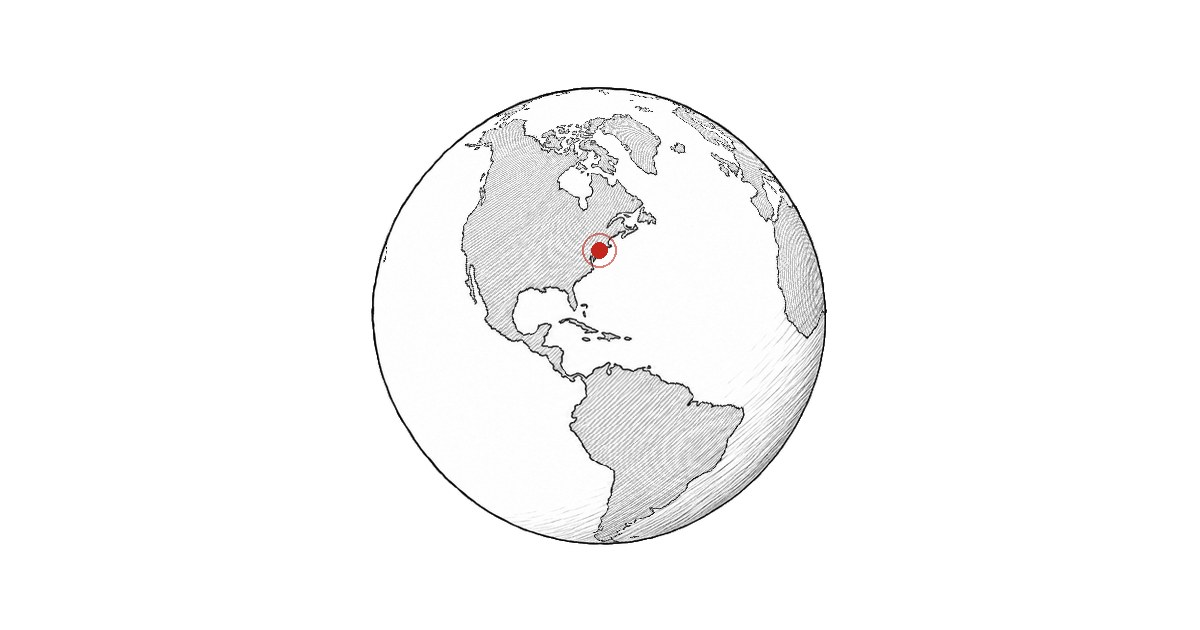
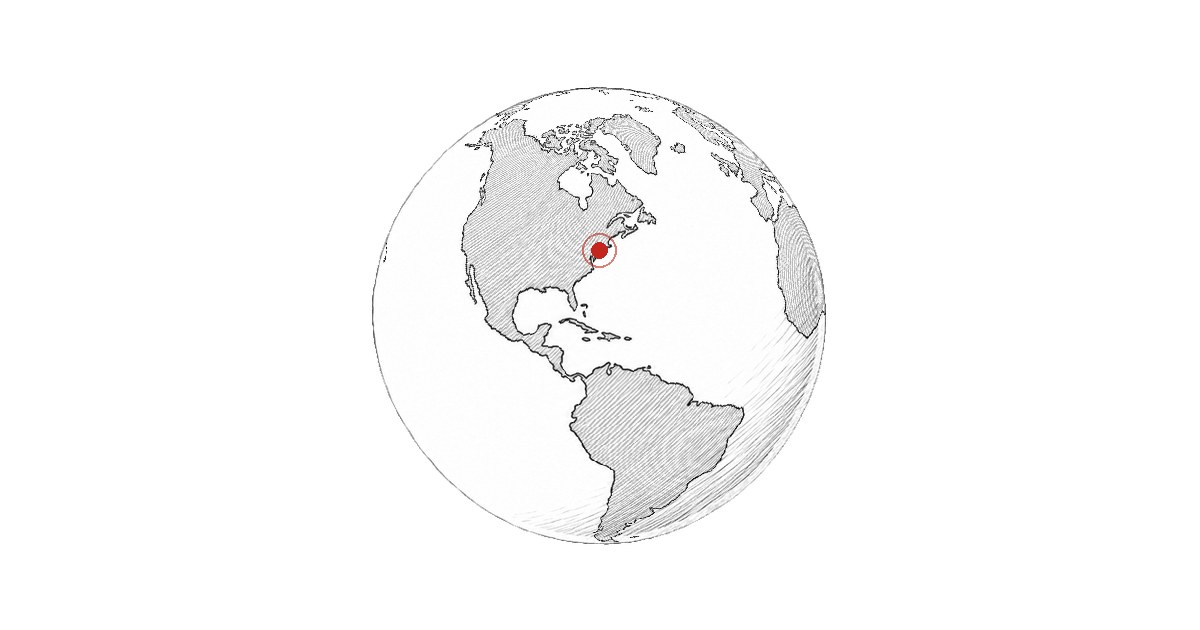
Thin the globe's outline and shorten the publish box
The outline of Astra's sphere is thinner and lighter, so the land stands out. The box in the form now reads: My message may be published anonymously.

Claude-Session: https://claude.ai/code/session_0199Xr6YvZPiSu8d5JWb3RJ9

diff --git a/about/about.html b/about/about.html
@@ -493,7 +493,7 @@ footer{margin-top:var(--s4);padding-top:var(--s2);border-top:1px solid var(--rul
           <p class="err t-small" id="e-message" aria-live="polite" hidden></p>
         </div>
         <div class="check">
-          <label class="t-small" for="f-public"><input type="checkbox" id="f-public" name="public" value="yes" checked> Pundir may publish my message anonymously, without my email address or phone number.</label>
+          <label class="t-small" for="f-public"><input type="checkbox" id="f-public" name="public" value="yes" checked> My message may be published anonymously.</label>
         </div>
         <div class="trap" aria-hidden="true">
           <label class="t-small" for="f-website">Leave this field empty</label>
